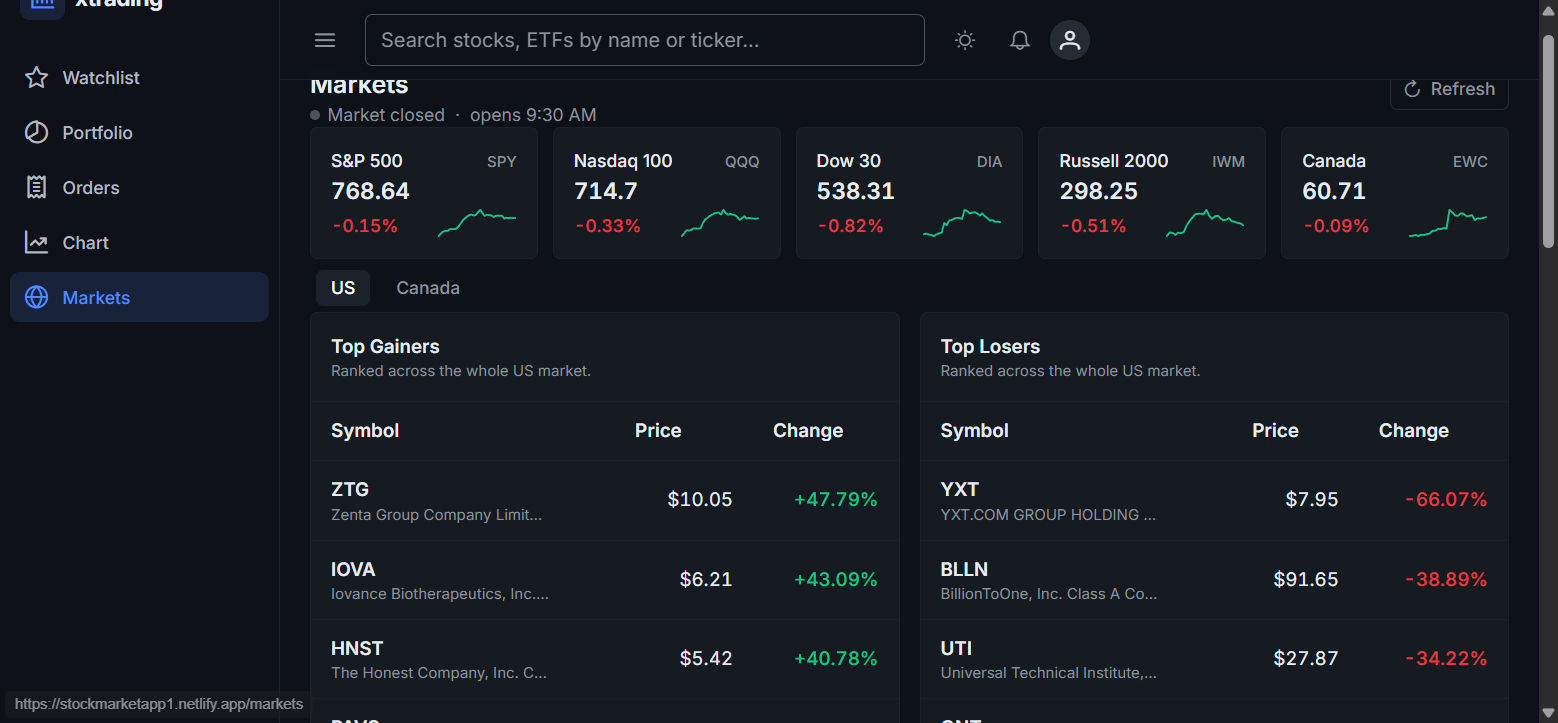
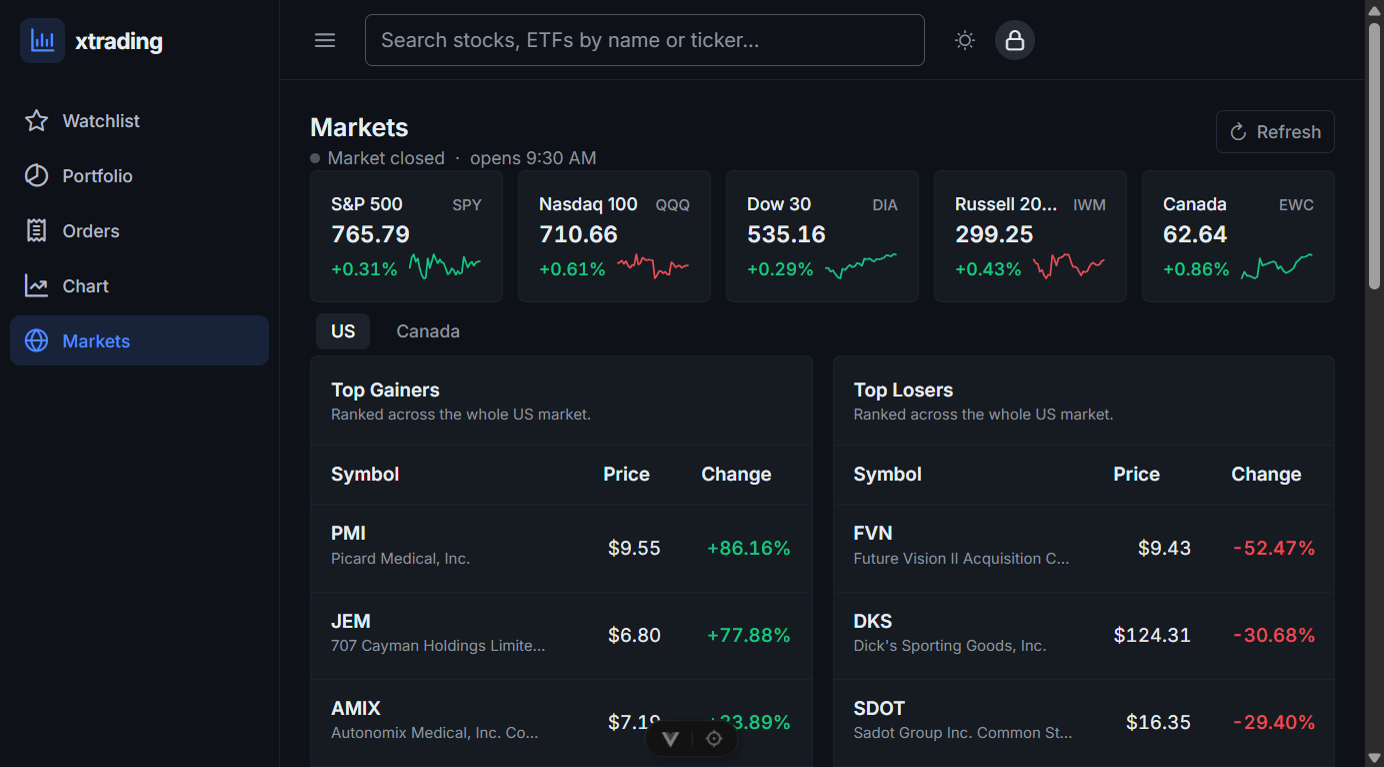
added readme

diff --git a/docs/06-roadmap.md b/docs/06-roadmap.md
@@ -252,4 +252,9 @@ _News was dropped from scope (ADR-019); the nav slot it occupied is now Orders._
       the demo is fully browsable; signed out, the order panel shows "Sign in to trade" and
       the Orders page hides cancel. `APP_PASSCODE` + `SESSION_SECRET` must be set in
       Netlify. See ADR-024.)_
-- [ ] Write the project README (screenshots, live demo, setup).
+- [x] Write the project README (screenshots, live demo, setup).
+      _(Root `README.md`: features, tech stack, brief architecture diagram, `Getting
+      started` + API keys table, scripts, deployment notes, and the known-limitations
+      callout from ADR-021, with a live link to the Netlify demo. Four screenshots
+      (Watchlist, Portfolio, Chart, Markets) in `docs/screenshots/`, refreshed after
+      the Phase 11 UI/accessibility polish so they match the current app.)_
